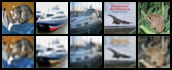
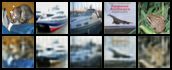
Use MSELoss

diff --git a/Autoencoder/EncDec.py b/Autoencoder/EncDec.py
@@ -70,13 +70,13 @@ if True:
         break # All data in dataset should have same shape
 
 ### Define the loss and create your optimizer
-loss_fn = nn.BCELoss()
+loss_fn = nn.MSELoss()
 optimizer = optim.Adam(net.parameters())
 
 ### Main training loop
 size = len(trainloader.dataset)
 
-for epoch in range(6):
+for epoch in range(2):
     print('-' * 32)
     print(f"Epoch {epoch + 1}")
     print('-' * 32)
